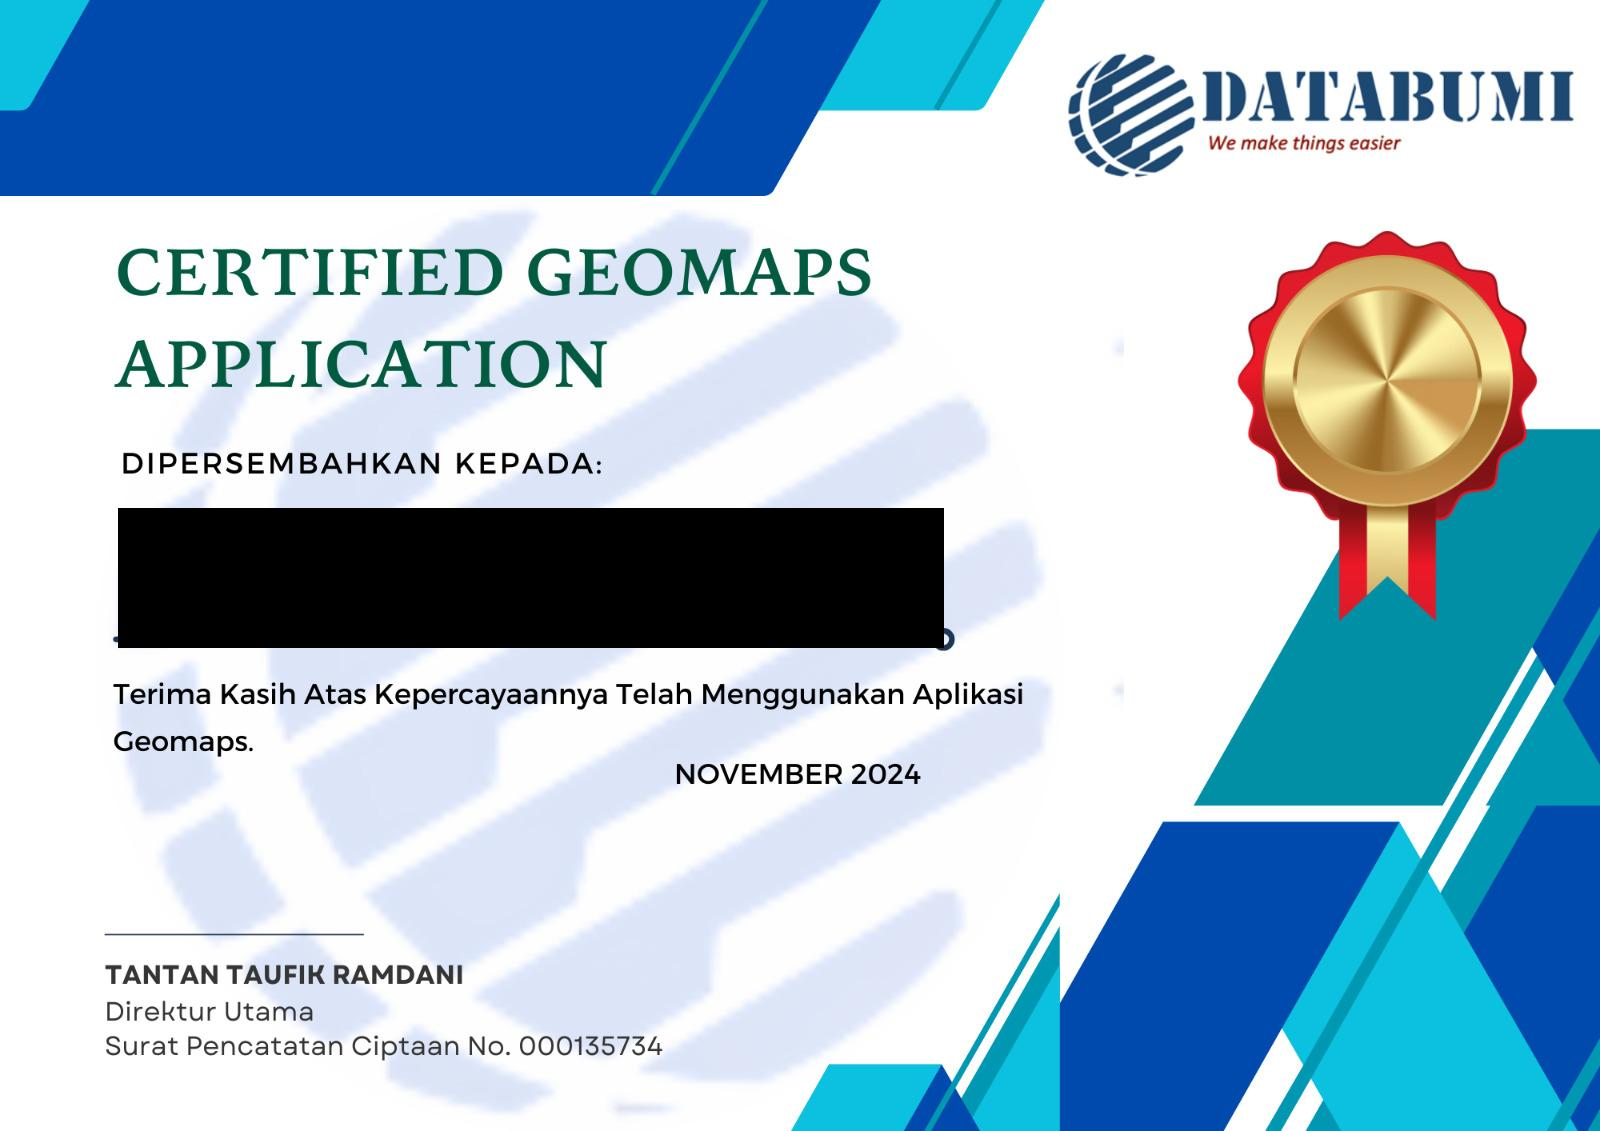
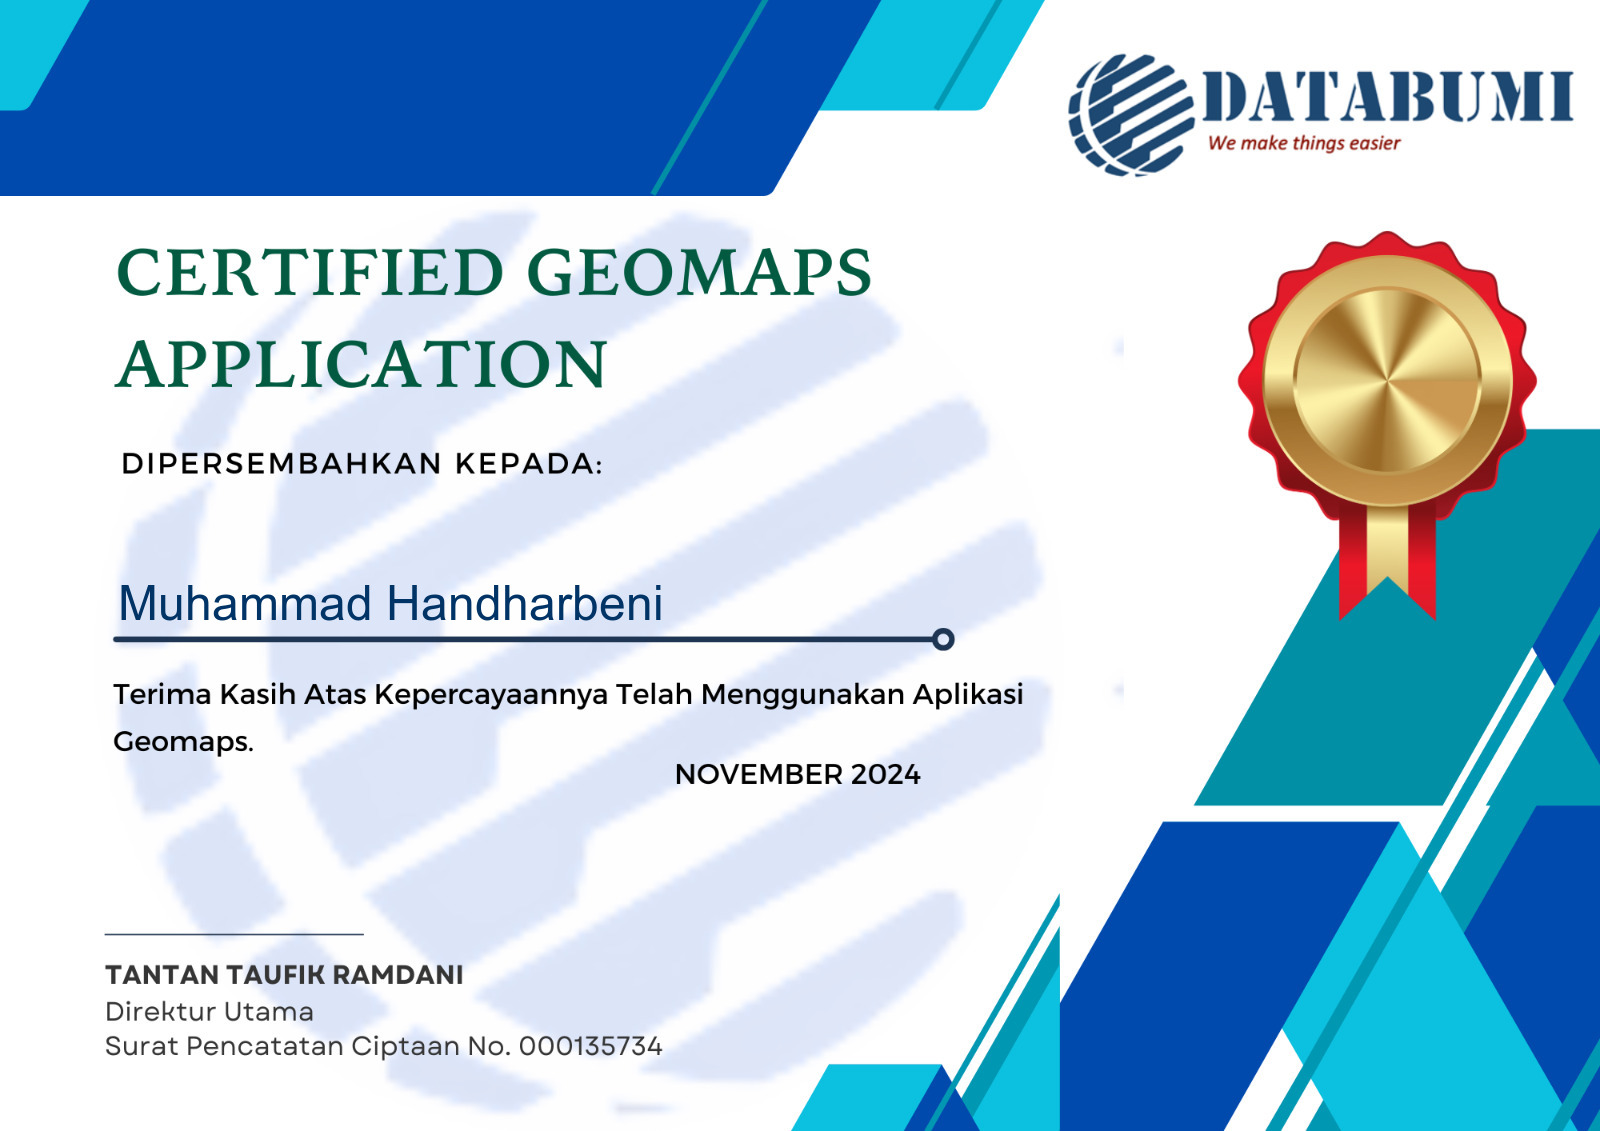
setup smtp

Changed region(s): [[0.0625, 0.4332, 0.5938, 0.588], [0.8125, 0.4951, 0.8438, 0.557], [0.625, 0.8355, 0.6562, 0.8665]]

diff --git a/controllers/certController.js b/controllers/certController.js
@@ -8,6 +8,7 @@ const knexInstance = require('../knex');
 const sharp = require("sharp");
 const Tesseract = require("tesseract.js");
 const { createCanvas, loadImage } = require("canvas");
+const gm = require('gm').subClass({ imageMagick: true });
 
 
 const imagePath = path.resolve(process.cwd(), "templates", "certificate-template.jpg");
@@ -67,7 +68,7 @@ exports.generateCertificate = async (req, res) => {
         port: 587,
         auth: {
             user: 'indonesiadatabumi@gmail.com',
-            pass: 'Dbi@2020',
+            pass: 'cvlv cbjo jrqf hcrk',
         },
     });
 
@@ -105,7 +106,7 @@ exports.generateCertificate = async (req, res) => {
         });
     } catch (error) {
         console.error(error);
-        return res.status(500).json({ error: 'Failed to generate certificate' });
+        return res.status(500).json({ error: `Failed to generate certificate ${error}` });
     }
 };
 
@@ -207,100 +208,17 @@ function fitTextToBox(ctx, text, maxWidth, maxHeight) {
 
 async function addTextWithBoundingBox(imagePath, textData, memberName) {
     try {
-
-        // Load the image
-        const image = await loadImage(imagePath);
-        // Create a canvas with the image dimensions
-        const canvas = createCanvas(image.width, image.height);
-        const ctx = canvas.getContext('2d');
-
-        // ctx.setTransform(1, 0, 0, 1, 0, 0);  // Reset scaling before drawing
-
-        // Draw the image on the canvas
-        ctx.drawImage(image, 0, 0);
-        
-
-        // Define the bounding box
-        const box = {
-            x: 118, // Top-left x-coordinate
-            y: 508, // Top-left y-coordinate
-            width: 826, // Box width
-            height: 140, // Box height
-        };
-
-        // Text to render
-        const text = memberName;
-
-        // Start with a large font size and scale down
-
-        // Dynamically adjust font size to fit text width in the box
-        while (ctx.measureText(text).width > box.width && fontSize > 10) {
-            fontSize--; // Decrease font size
-            ctx.font = `${fontSize}px Arial`;
-        }
-
-        // Fill the bounding box (optional, for visualization)
-        // ctx.fillStyle = 'rgba(0, 0, 0, 0)'; // Light transparent black
-        // ctx.fillRect(box.x, box.y, box.width, box.height);
-        // fitTextToBox(ctx, text, box.width, box.height);
-
-        // Set text color and alignment
-        ctx.fillStyle = 'white'; // Text color
-        ctx.textAlign = 'left'; // Center align horizontally
-        ctx.textBaseline = 'middle'; // Center align vertically
-
-        // Calculate text position within the box
-        const textX = box.x; // Center of the box (x-axis)
-        const textY = box.y + (box.height / 2); //(box.y + box.height) / 2; // Center of the box (y-axis)
-        // console.log(textX, textY);
-        // let fontSize = box.y + box.height; // Maximum font size is the box height
-        // let fontSize = 10000; // Maximum font size is the box height
-
-        // ctx.quality = 'best'
-        // ctx.font = '148px';  // Set a large font size
-        // ctx.fillStyle = 'black';
-        // ctx.strokeRect(box.x, box.y, box.width, box.height);
-        // ctx.fillStyle = 'rgba(0, 0, 0, 0)';  // Black with 50% opacity
-        // ctx.fillRect(box.x, box.y, box.width, box.height);         // Adjust position and size
-
-        // ctx.strokeText(text, textX, textY, box.width);
-        ctx.fillText(text, textX, textY, box.width);
-
         const outputPath = path.join(process.cwd(), "uploads", `${memberName}.jpg`);
-        const out = fs.createWriteStream(outputPath);
-        const stream = canvas.createJPEGStream();
-        stream.pipe(out);
-
-        out.on('finish', () => console.log(`Image saved to ${outputPath}`));
-
+        gm(imagePath)
+            .font('Arial', 48)  // Font and size
+            .fill('#003366')    // Text color (dark blue)
+            .drawText(118, 38, memberName, 'West')  // Text, positioning relative to center
+            .write(outputPath, (err) => {
+                if (err) console.error('Error:', err);
+                else console.log('Certificate generated successfully:', outputPath);
+            });
+        return outputPath;
     } catch (error) {
-        console.error('Error processing the image:', error);
+        return undefined;
     }
-
-    // loadImage(imagePath).then((image) => {
-    //     const canvas = createCanvas(image.width, image.height);
-    //     const ctx = canvas.getContext('2d');
-      
-    //     // Draw the template image
-    //     ctx.drawImage(image, 0, 0, image.width, image.height);
-    //     ctx.setTransform(1, 0, 0, 1, 0, 0);
-
-    //     ctx.font = 'bold 141px Arial';
-    //     ctx.fillStyle = '#003366';
-    //     ctx.textAlign = 'center';
-      
-    //     // Add the recipient's name
-    //     // const recipientName = 'John Doe';  // Change dynamically per user
-    //     ctx.fillText(memberName, canvas.width / 2, 330);  // Adjust Y position as needed
-      
-    //     // Add additional details
-    //     ctx.font = '24px Arial';   // Smaller font for other text
-    //     ctx.fillText('November 2024', canvas.width / 2, 460);  // Date position
-      
-    //     // Save the generated certificate
-    //     const buffer = canvas.toBuffer('image/png');
-    //     //     const outputPath = path.join(process.cwd(), "uploads", `${memberName}.jpg`);
-    //     fs.writeFileSync('generated-certificate.png', buffer);
-    //     console.log('Certificate generated successfully!');
-    //   }).catch(err => console.error('Error loading image:', err));
 }
